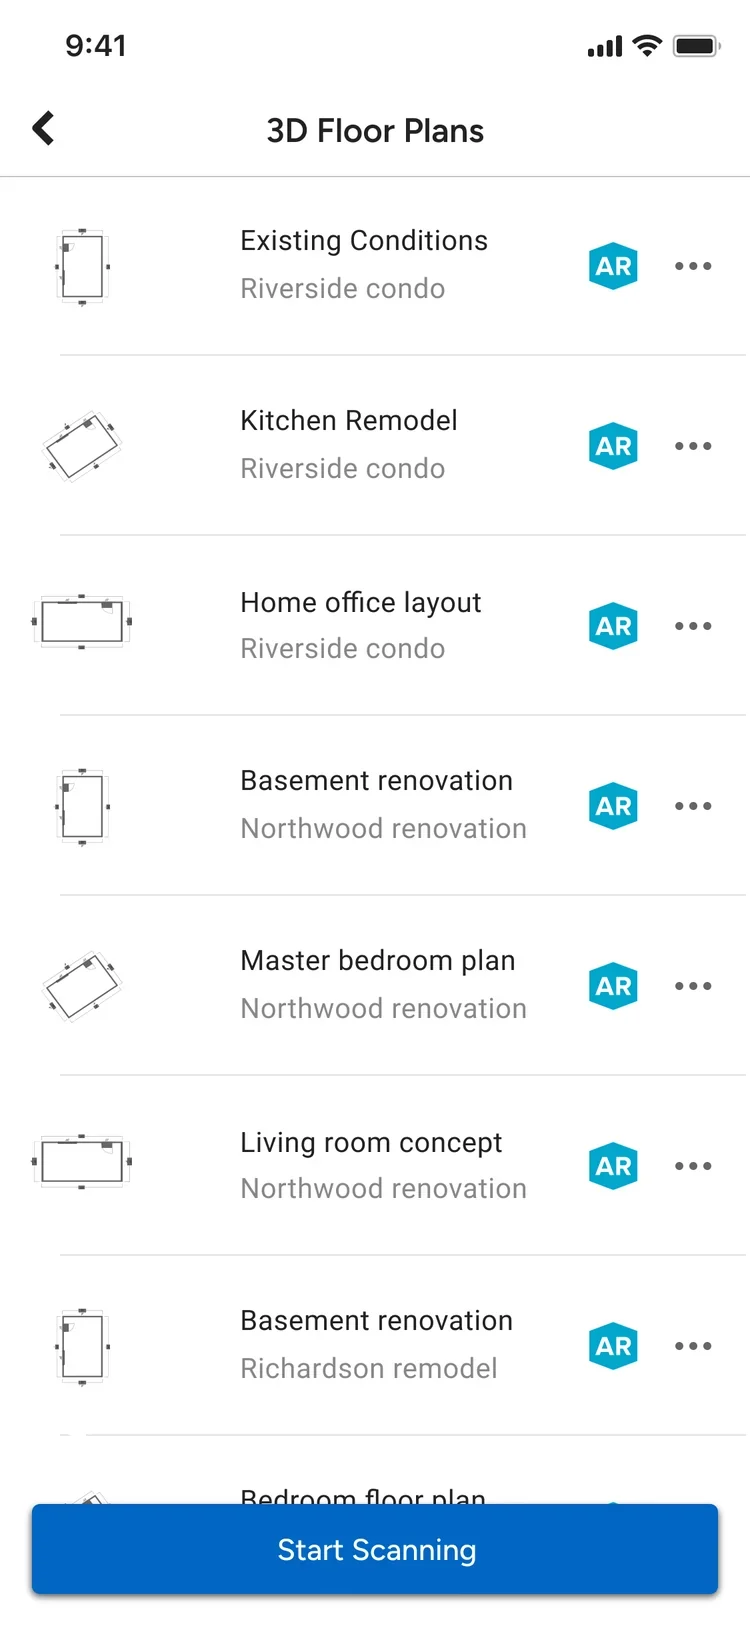
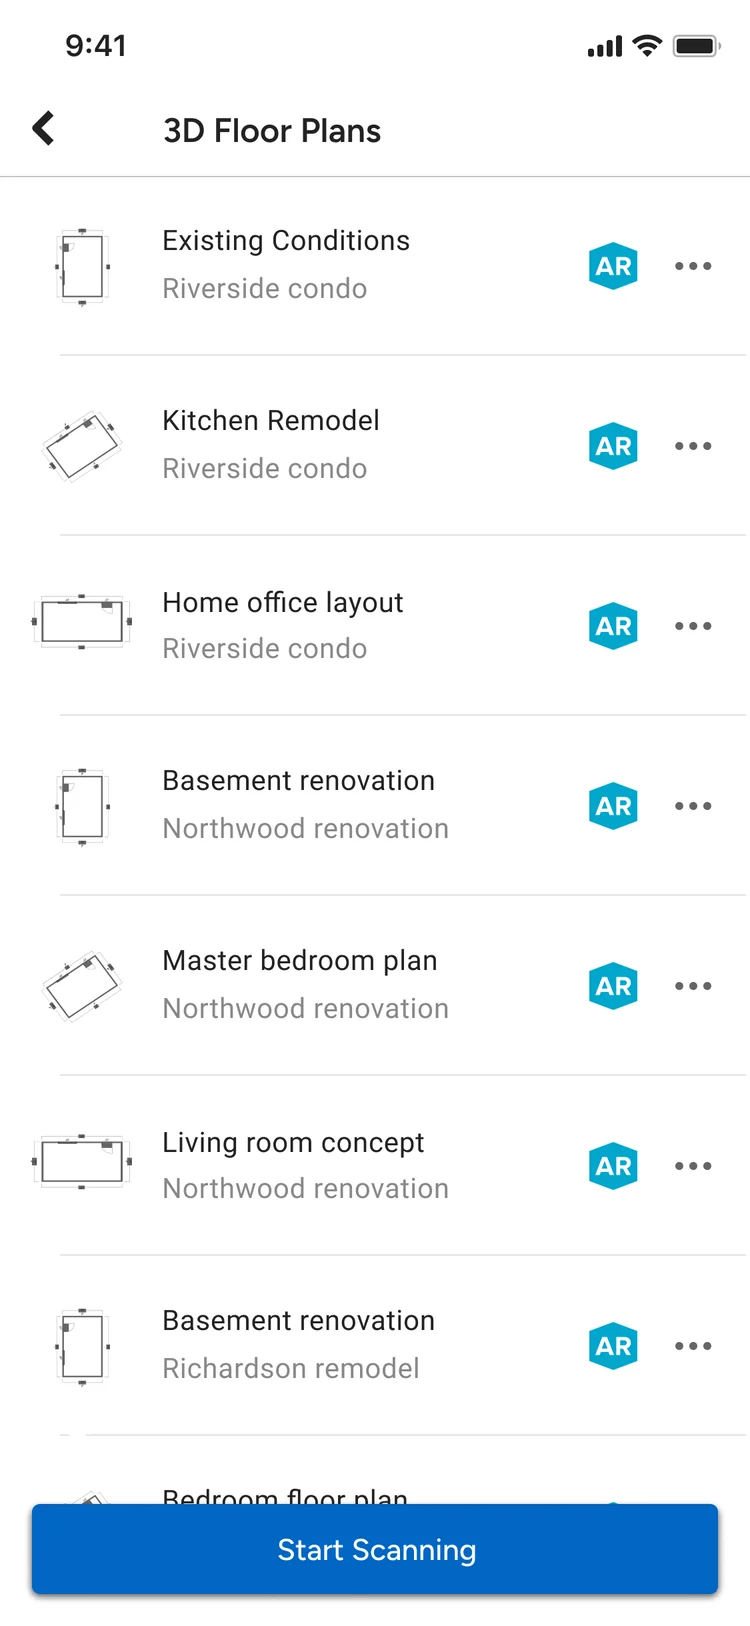
Swap in the re-exported list screens
Both headers now left-align 3D Floor Plans under the back chevron
instead of centring it, so the title sits on the same left edge as the
plan names below it, and neither carries the overflow dots. Same 750x1626
as before, so the pair keeps its matched sizes.

diff --git a/work/multi-room-mobile-scan.html b/work/multi-room-mobile-scan.html
@@ -901,12 +901,12 @@
     </div>
     <figure class="mrx-wildplate mrx-wildplate--pair">
       <figure>
-        <img src="../media/multi-room/mr-list-before.webp?v=3" alt="The floor plans list before, where every entry is a single room" width="750" height="1626" loading="lazy" decoding="async">
+        <img src="../media/multi-room/mr-list-before.webp?v=4" alt="The floor plans list before, where every entry is a single room" width="750" height="1626" loading="lazy" decoding="async">
         <figcaption class="mrx-vscap"><b>Before</b></figcaption>
       </figure>
       <span class="mrx-vs__arrow" aria-hidden="true">&rarr;</span>
       <figure>
-        <img src="../media/multi-room/mr-list-final.webp?v=3" alt="The floor plans list after, where each entry is a whole unit made of connected rooms" width="750" height="1626" loading="lazy" decoding="async">
+        <img src="../media/multi-room/mr-list-final.webp?v=4" alt="The floor plans list after, where each entry is a whole unit made of connected rooms" width="750" height="1626" loading="lazy" decoding="async">
         <figcaption class="mrx-vscap"><b>After</b></figcaption>
       </figure>
     </figure>
